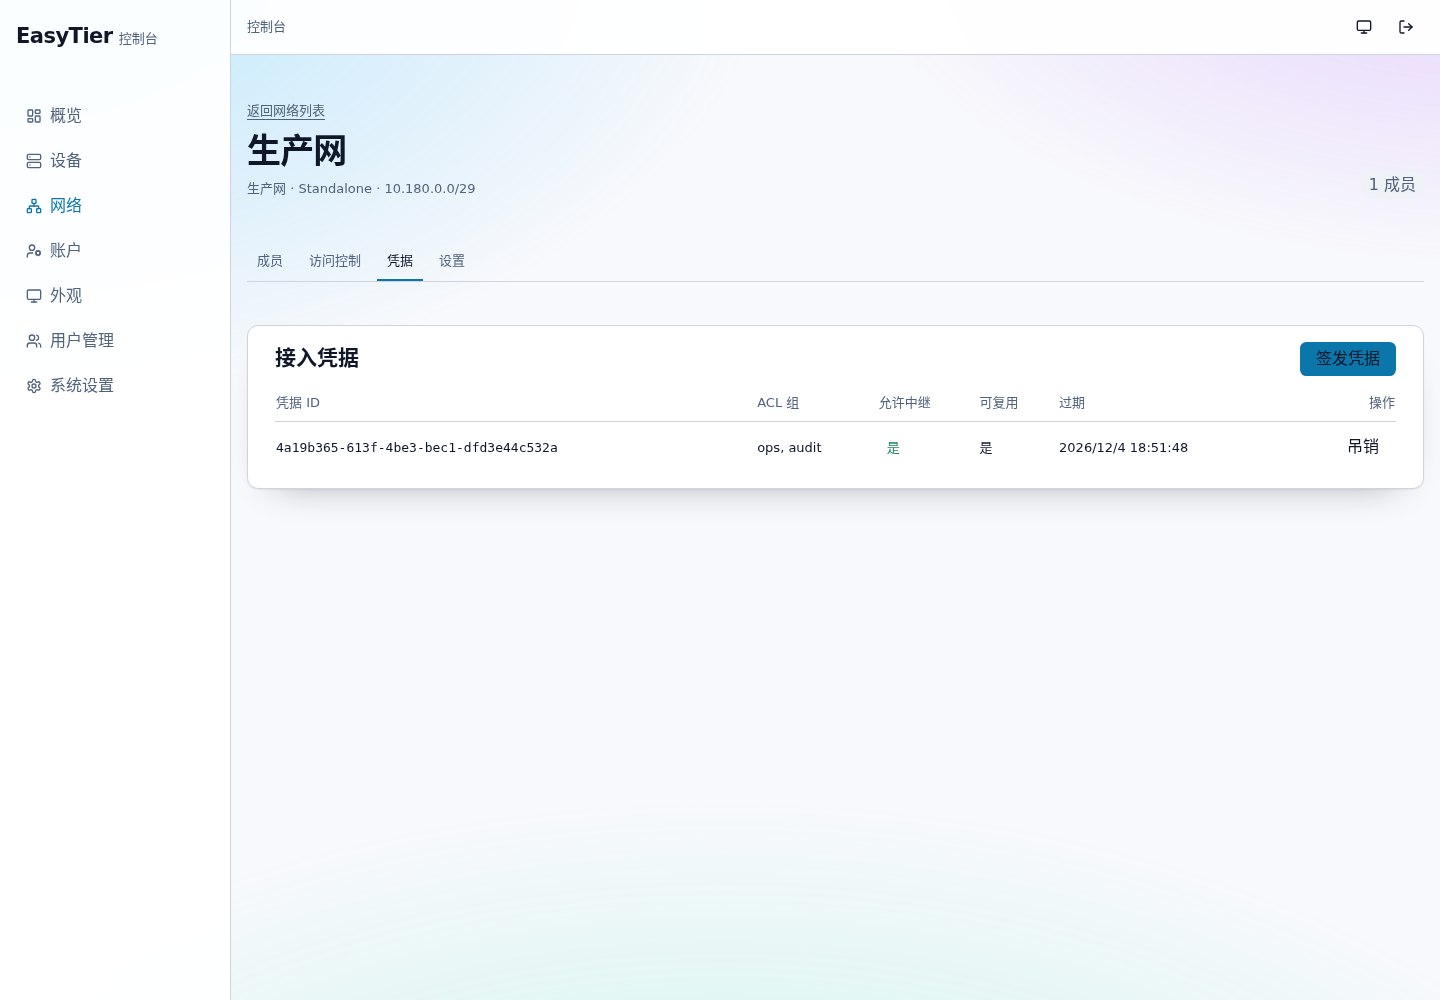
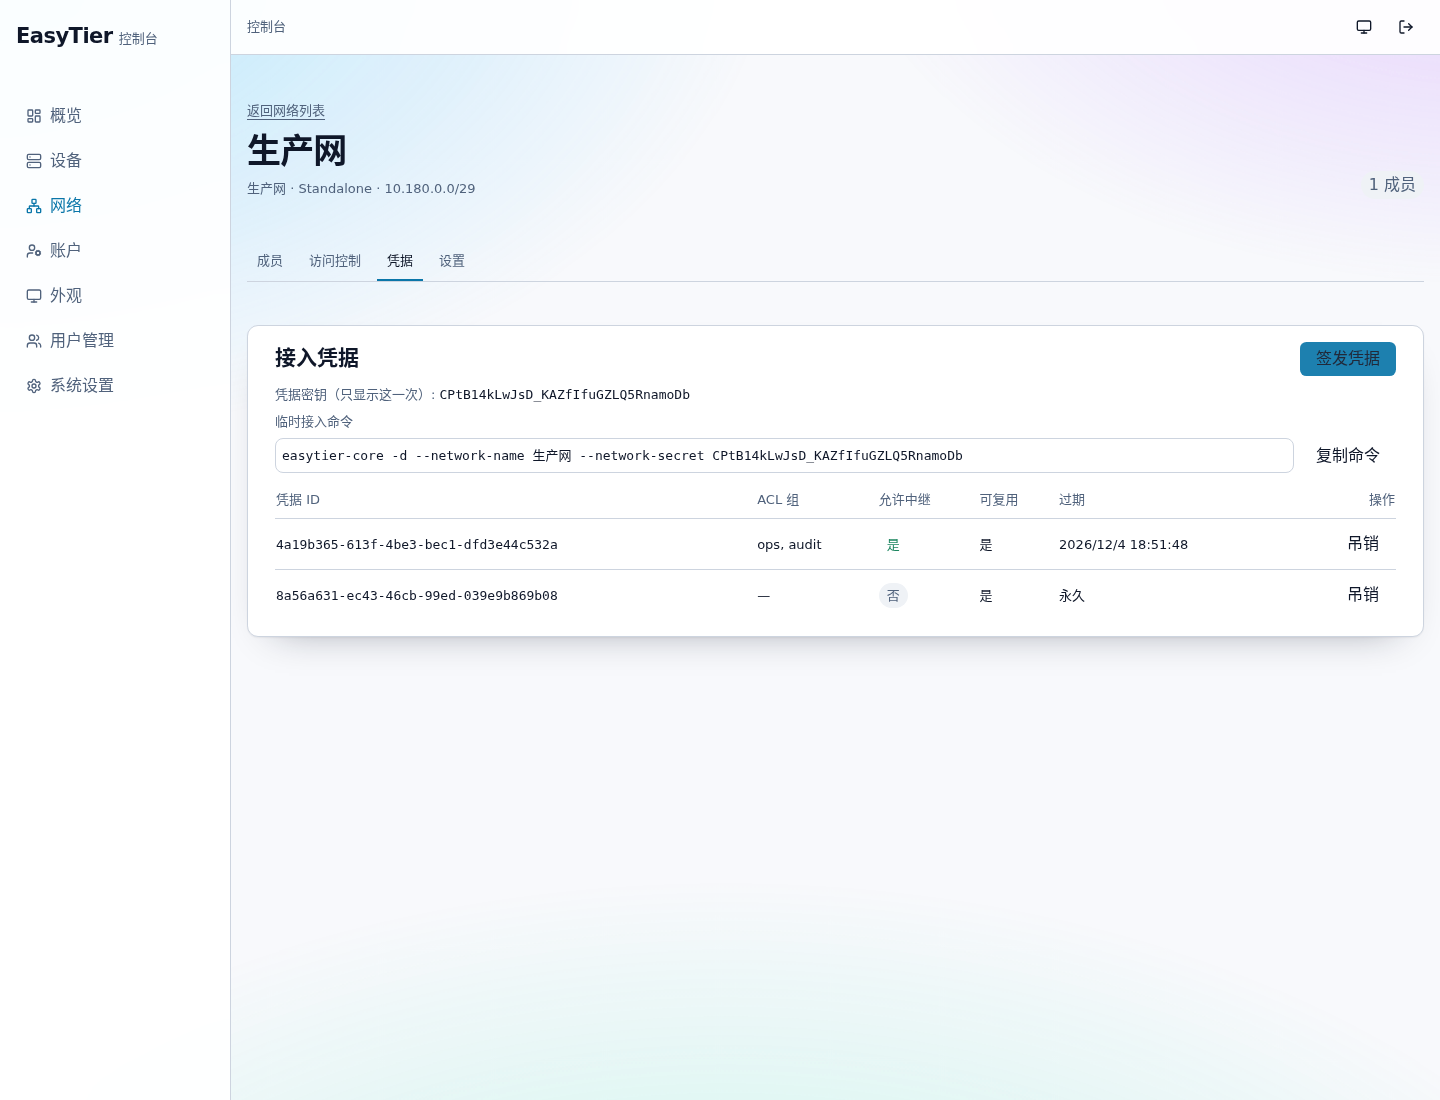
client: a join command for temporary credentials, and a copy button on overrides
Issuing a credential used to reveal a secret and nothing else. The panel now
builds the command an operator pastes on the device, with the network name read
from the API, and the member override editor can copy its blob.

diff --git a/client/src/features/networks/network-credentials-panel.tsx b/client/src/features/networks/network-credentials-panel.tsx
@@ -18,7 +18,9 @@ function expiryLabel(credential: NetworkCredential): string {
 export function NetworkCredentialsPanel({ networkID }: { networkID: string }) {
   const queryClient = useQueryClient();
   const [secret, setSecret] = useState('');
+  const [copied, setCopied] = useState(false);
   const credentials = useQuery({ queryKey: ['credentials', networkID], queryFn: () => api.credentials(networkID) });
+  const network = useQuery({ queryKey: ['network', networkID], queryFn: () => api.network(networkID) });
 
   const refresh = () => {
     void queryClient.invalidateQueries({ queryKey: ['credentials', networkID] });
@@ -38,6 +40,20 @@ export function NetworkCredentialsPanel({ networkID }: { networkID: string }) {
     },
   });
 
+  const networkName = network.data ? network.data.network_name : '';
+  const joinCommand =
+    secret && networkName
+      ? "easytier-core -d --network-name " + networkName + " --network-secret " + secret
+      : '';
+  const copyJoin = async () => {
+    try {
+      await navigator.clipboard.writeText(joinCommand);
+      setCopied(true);
+    } catch {
+      setCopied(false);
+    }
+  };
+
   const issued = credentials.data ? credentials.data.credentials : [];
 
   return (
@@ -51,9 +67,20 @@ export function NetworkCredentialsPanel({ networkID }: { networkID: string }) {
         </div>
         {credentials.isLoading ? <Skeleton className="h-[var(--u-10)]" /> : null}
         {secret ? (
-          <p className="break-all text-phi-sm text-muted-foreground">
-            {copy.networkSettings.secretOnce}: <span className="font-mono text-foreground">{secret}</span>
-          </p>
+          <div className="space-y-[var(--u-2)]">
+            <p className="break-all text-phi-sm text-muted-foreground">
+              {copy.networkSettings.secretOnce}: <span className="font-mono text-foreground">{secret}</span>
+            </p>
+            <p className="text-phi-sm text-muted-foreground">{copy.networks.joinCommand}</p>
+            <div className="flex flex-wrap items-center gap-[var(--u-2)]">
+              <code className="min-w-0 flex-1 break-all rounded-[var(--radius)] border border-border bg-card p-[var(--u-2)] font-mono text-phi-sm">
+                {joinCommand}
+              </code>
+              <Button type="button" variant="ghost" onClick={copyJoin}>
+                {copied ? copy.networks.overrideCopied : copy.networks.joinCopy}
+              </Button>
+            </div>
+          </div>
         ) : null}
         {issued.length === 0 ? (
           <p className="text-phi-sm text-muted-foreground">{copy.networkSettings.noCredentials}</p>

diff --git a/client/src/features/networks/member-override.tsx b/client/src/features/networks/member-override.tsx
@@ -13,6 +13,7 @@ export function MemberOverride({ networkID, deviceID }: { networkID: string; dev
   const queryClient = useQueryClient();
   const [draft, setDraft] = useState<string | null>(null);
   const [error, setError] = useState<string | null>(null);
+  const [copied, setCopied] = useState(false);
 
   const config = useQuery({
     queryKey: ['member-config', networkID, deviceID],
@@ -74,6 +75,20 @@ export function MemberOverride({ networkID, deviceID }: { networkID: string; dev
           }}
         >
           {copy.networks.overrideClear}
+        </Button>
+        <Button
+          type="button"
+          variant="ghost"
+          onClick={async () => {
+            try {
+              await navigator.clipboard.writeText(current);
+              setCopied(true);
+            } catch {
+              setCopied(false);
+            }
+          }}
+        >
+          {copied ? copy.networks.overrideCopied : copy.networks.overrideCopy}
         </Button>
         <span className="text-phi-sm text-muted-foreground">{copy.networks.overrideHint}</span>
       </div>

diff --git a/client/src/copy/zh-CN.ts b/client/src/copy/zh-CN.ts
@@ -99,6 +99,10 @@ export const copy = {
     unblock: '解除阻止',
   },
   networks: {
+    overrideCopy: '复制',
+    overrideCopied: '已复制',
+    joinCommand: '临时接入命令',
+    joinCopy: '复制命令',
     advancedTitle: '高级设置',
     advancedHint: '网络级默认值，成员可在成员设置里逐项覆盖；命中白名单的设备会对账时自动并网。',
     advancedMtu: 'MTU（留空表示不设置）',

diff --git a/ai-censorship/ledger.md b/ai-censorship/ledger.md
@@ -301,3 +301,4 @@
 | F-295 | r226 | R-A 前端 | P1 | 规则 id 用自增计数器生成，**每次页面加载都从 1 开始**，于是两次不同会话添加的规则拿到同一个 id（服务端库里出现两条 rule-1）；React 的 key 与编辑回调都假设 id 唯一 | FIXED | newRule 改为随机 id；parsePolicy 载入时对重复 id 追加后缀（rule-1-2）；实测：库里原有两个 rule-1，保存后变为 rule-1 与 rule-1-2，唯一性检查通过 |
 | F-296 | r227 | R-A 前端 | P2 | 设备页缺少原版的接入引导与搜索，也没有实例数列；console-info 不返回控制面端口，前端无法拼出正确的接入命令 | FIXED | 后端 console-info 增加 config_server_port（由 webd 从 --config-server 地址解析）；新增 enroll-card 从 console-info 拼命令并支持复制；设备列表加搜索（名称/别名/machine id）与「实例」列、空结果提示。浏览器实测：命令为 easytier-core --config-server tcp://127.0.0.1:28202/root-owner、表头含「实例」、搜索命中 1 行、无匹配显示空态、0 console error |
 | F-297 | r227 | R-A 前端 | P2 | 我的浏览器验收脚本用 `replace(/\s+/g, " ")` 归一化文本，而模板把 `\s` 吞成 `s`，于是正则变成 `/s+/g`——**把文本里所有字母 s 替换成空格**，导致 "easytier" 变 "ea ytier"、"ops, audit" 变 "op , audit"，前几轮的文本断言因此出现过假阴性 | FIXED | 改用 split/join 归一化；本轮四条断言（命令含端口与用户名、表头含实例、搜索命中 1 行、空态出现）全部通过 |
+| F-298 | r228 | R-A 前端 | P2 | 网络详情缺少原版的「临时成员」与「配置复制」：签发凭据后只给出密钥，没有可直接粘贴的接入命令；成员 override 只能保存/清空，不能复制 | FIXED | 凭据页在签发后现拼 `easytier-core -d --network-name <net> --network-secret <cred>`（网络名取自 GET /networks/{id}）并带复制按钮；成员 override 增加「复制」。浏览器实测：命令为 easytier-core -d --network-name 生产网 --network-secret …，含网络名与密钥，0 console error。ACL 统计仍缺（需代理实例侧 RPC），已在 UI-MATRIX 标注 |

diff --git a/docs/UI-MATRIX.md b/docs/UI-MATRIX.md
@@ -11,7 +11,7 @@
 | 设备接入引导 | DeviceList/MainPage：enroll token、命令复制、说明 | **已实现**：从 console-info 拼出 `easytier-core --config-server <proto>://<host>:<port>/<user>`，一键复制 | 已对齐 |
 | 设备列表增强 | DeviceList：搜索、别名、封禁、删除、实例数、位置、公网 IP | 已有别名/删除/封禁；**新增搜索、实例数列**；位置与公网 IP 缺（需要 geoip，我们只有接入地址） | 部分 |
 | 设备详情 | DeviceDetails：central_networks、hostname、last_report、location、public_ip、status、version | 有页头 + 所属网络；缺 location/public_ip/last_report | 部分 |
-| 网络详情增强 | NetworkDetail（1660 行）：临时成员（凭证加入）、配置复制/重置、ACL 统计（bytes/packets/rule）、对端与路由 | 有成员增删改、凭据、高级设置；缺临时成员、配置复制/重置、ACL 统计 | 部分 |
+| 网络详情增强 | NetworkDetail（1660 行）：临时成员、配置复制/重置、ACL 统计（bytes/packets/rule）、对端与路由 | **已做**：临时成员（签发凭据 → 现拼 `easytier-core -d --network-name <net> --network-secret <cred>` 并复制）、成员 override 的复制与清空；**缺**：ACL 统计（需要代理实例侧 RPC，控制面目前只代理 WebClientService）、对端/路由（设备详情页已有网络维度，未做实例维度） | 部分 |
 | 网络创建 | NetworkList：networking_method（standalone/manual/gateway/public server）、secure mode、initial nodes、advanced mode | 只有名称 + 网段 | 缺 |
 | 全局壳 | MainPage：语言切换、主题、文档链接、设备接入、封禁设备页、改密页、登出 | 有主题、登出、用户管理、系统设置；缺语言、文档、封禁页、改密页 | 部分 |
 | Dashboard | Dashboard：自动刷新、实例计数、在线成员、view all | 有设备/在线/最近在线 | 部分 |

diff --git a/ai-censorship/review-20261101-r228.md b/ai-censorship/review-20261101-r228.md
@@ -1,0 +1,26 @@
+# 第 228 轮评审（2026-11-01）— 临时成员的接入命令与配置复制
+
+原版网络详情有「加临时成员」和「复制配置」。我们之前：签发凭据只给密钥，成员 override 只能存/清空。
+
+## 1. 做了什么
+
+| 位置 | 之前 | 现在 |
+|---|---|---|
+| 凭据页 | 只显示一次性密钥 | 额外现拼接入命令 `easytier-core -d --network-name <net> --network-secret <cred>`，带复制按钮 |
+| 成员 override | 保存 / 清空 | 增加「复制」 |
+
+命令里的网络名来自 GET /networks/{id}，密钥来自签发响应——两者都不是写死的。
+
+## 2. 浏览器实测
+
+- 命令：easytier-core -d --network-name 生产网 --network-secret CPtB14…
+- 含网络名、含 --network-secret、0 console error、0 失败请求
+
+## 3. 没做到的
+
+原版还有 ACL 统计（acl_bytes / acl_packets / acl_rule）。这些数字来自**实例侧 RPC**，
+而我们的控制面目前只代理 WebClientService，因此拿不到。已在 docs/UI-MATRIX.md 明确标注为缺口，不假装做了。
+
+## 4. 状态
+
+UI 目标第 3 项部分完成（临时成员、配置复制/重置已对齐；ACL 统计缺）。剩余：创建向导、全局壳、Dashboard。
